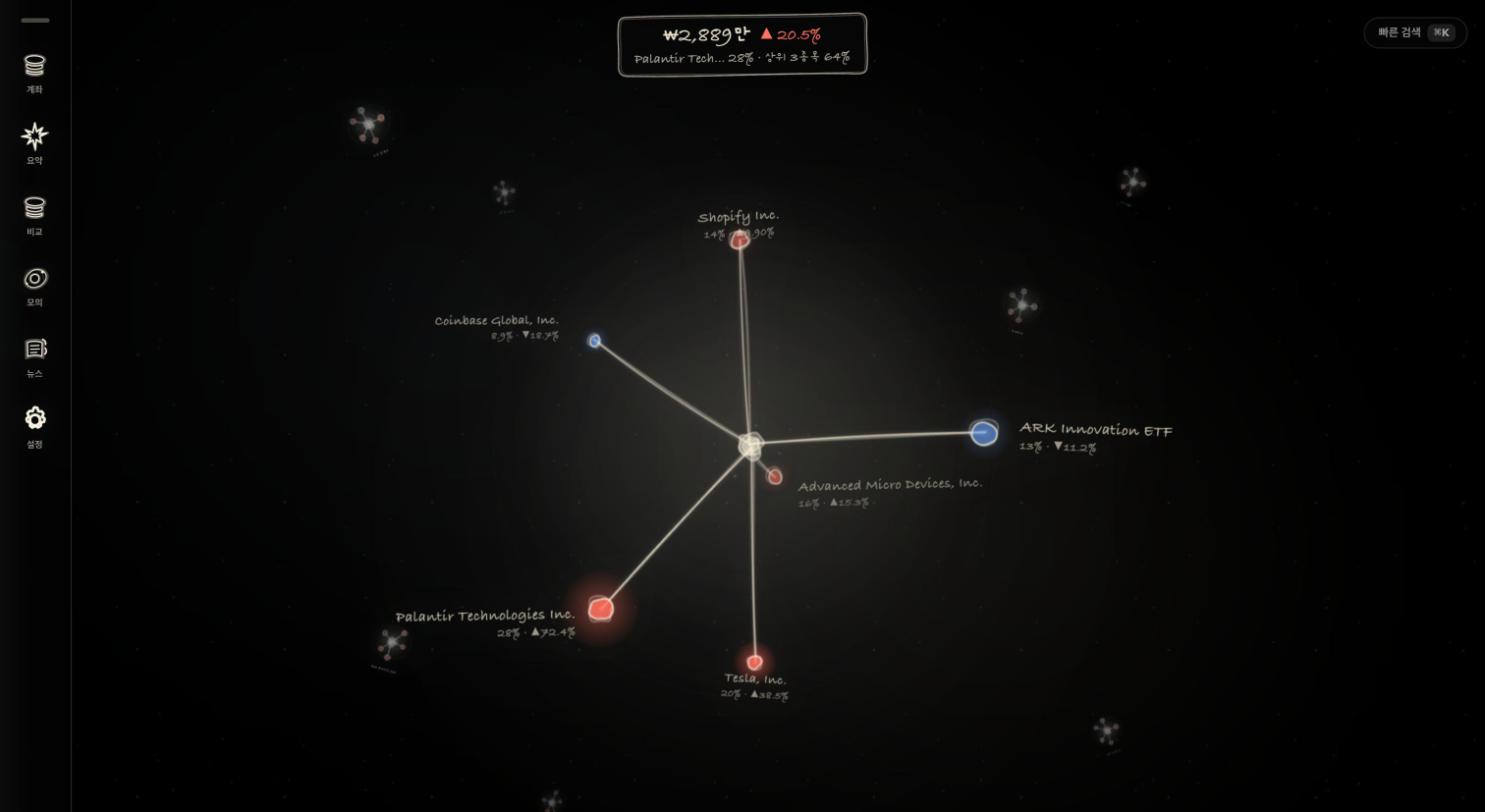
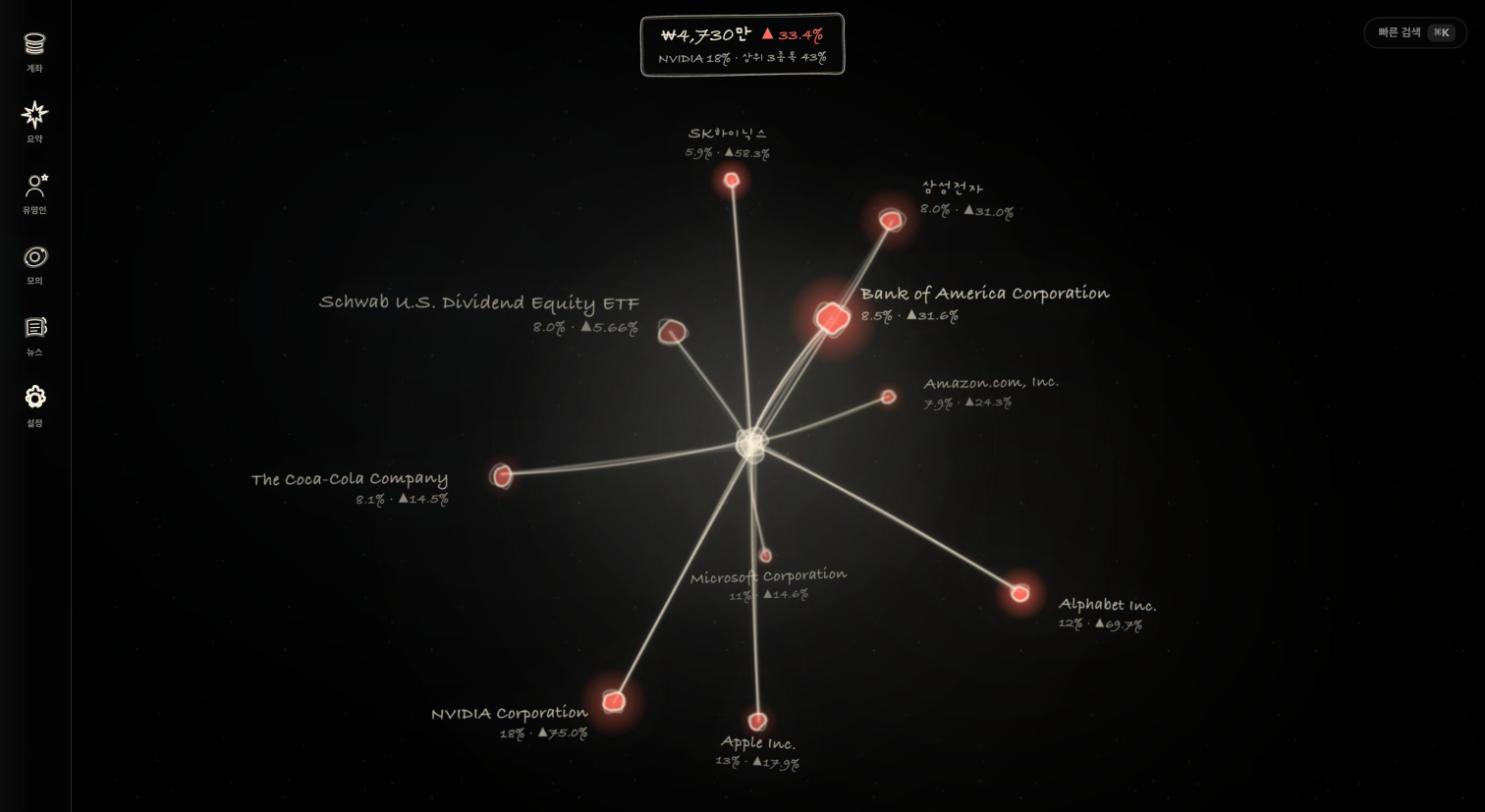
README: refresh the hero image with the latest main screen

diff --git a/README.md b/README.md
@@ -17,7 +17,7 @@
 
 **[배포 사이트](https://atomfolio.vercel.app)** · [예시 데이터](samples/demo/) · [업데이트 로그](docs/updates/AtomFolio_Updates.md) · [기획서](docs/proposal/AtomFolio_Proposal.md)
 
-<img src="docs/updates/assets/atomfolio-current-atomview.jpg" alt="AtomFolio 메인 화면: 가운데 포트폴리오에서 종목 전자들이 뻗어 나가고, 손익이 큰 종목이 빨강·파랑으로 빛나는 모습" width="100%">
+<img src="docs/updates/assets/atomfolio-current-atomview.jpg" alt="AtomFolio 메인 화면: 가운데 포트폴리오에서 종목 전자들이 뻗어 나가고, 손익이 큰 종목이 빨강·파랑으로 빛나는 모습. 왼쪽 레일에 유명인 탭이 있음" width="100%">
 
 </div>
 
@@ -98,7 +98,7 @@ AtomFolio의 목표는 세 가지입니다.
 ## 실행 화면
 
 > [!NOTE]
-> 아래 스크린샷은 2026-11-15(유명인 포트폴리오는 2026-11-22)에 [`samples/demo/`](samples/demo/)의 예시 포트폴리오 8개를 올려 다시 찍은 화면입니다. 실제 계좌 데이터가 아닙니다. 예전 화면은 [업데이트 로그](#업데이트-로그)에 남아 있습니다.
+> 아래 스크린샷은 2026-11-15(메인 화면과 유명인 포트폴리오는 2026-11-22)에 [`samples/demo/`](samples/demo/)의 예시 포트폴리오 8개를 올려 다시 찍은 화면입니다. 실제 계좌 데이터가 아닙니다. 예전 화면은 [업데이트 로그](#업데이트-로그)에 남아 있습니다.
 
 ### 메인 포트폴리오
 

diff --git a/README.en.md b/README.en.md
@@ -17,7 +17,7 @@ and investment simulation into a single picture: holdings radiating out from the
 
 **[Live site](https://atomfolio.vercel.app)** · [Demo data](samples/demo/) · [Update log](docs/updates/AtomFolio_Updates.en.md) · [Proposal](docs/proposal/AtomFolio_Proposal.md)
 
-<img src="docs/updates/assets/atomfolio-current-atomview.jpg" alt="AtomFolio main screen: holdings radiate from the portfolio at the center, with big movers glowing red or blue" width="100%">
+<img src="docs/updates/assets/atomfolio-current-atomview.jpg" alt="AtomFolio main screen: holdings radiate from the portfolio at the center, with big movers glowing red or blue. The Famous tab sits in the left rail" width="100%">
 
 </div>
 
